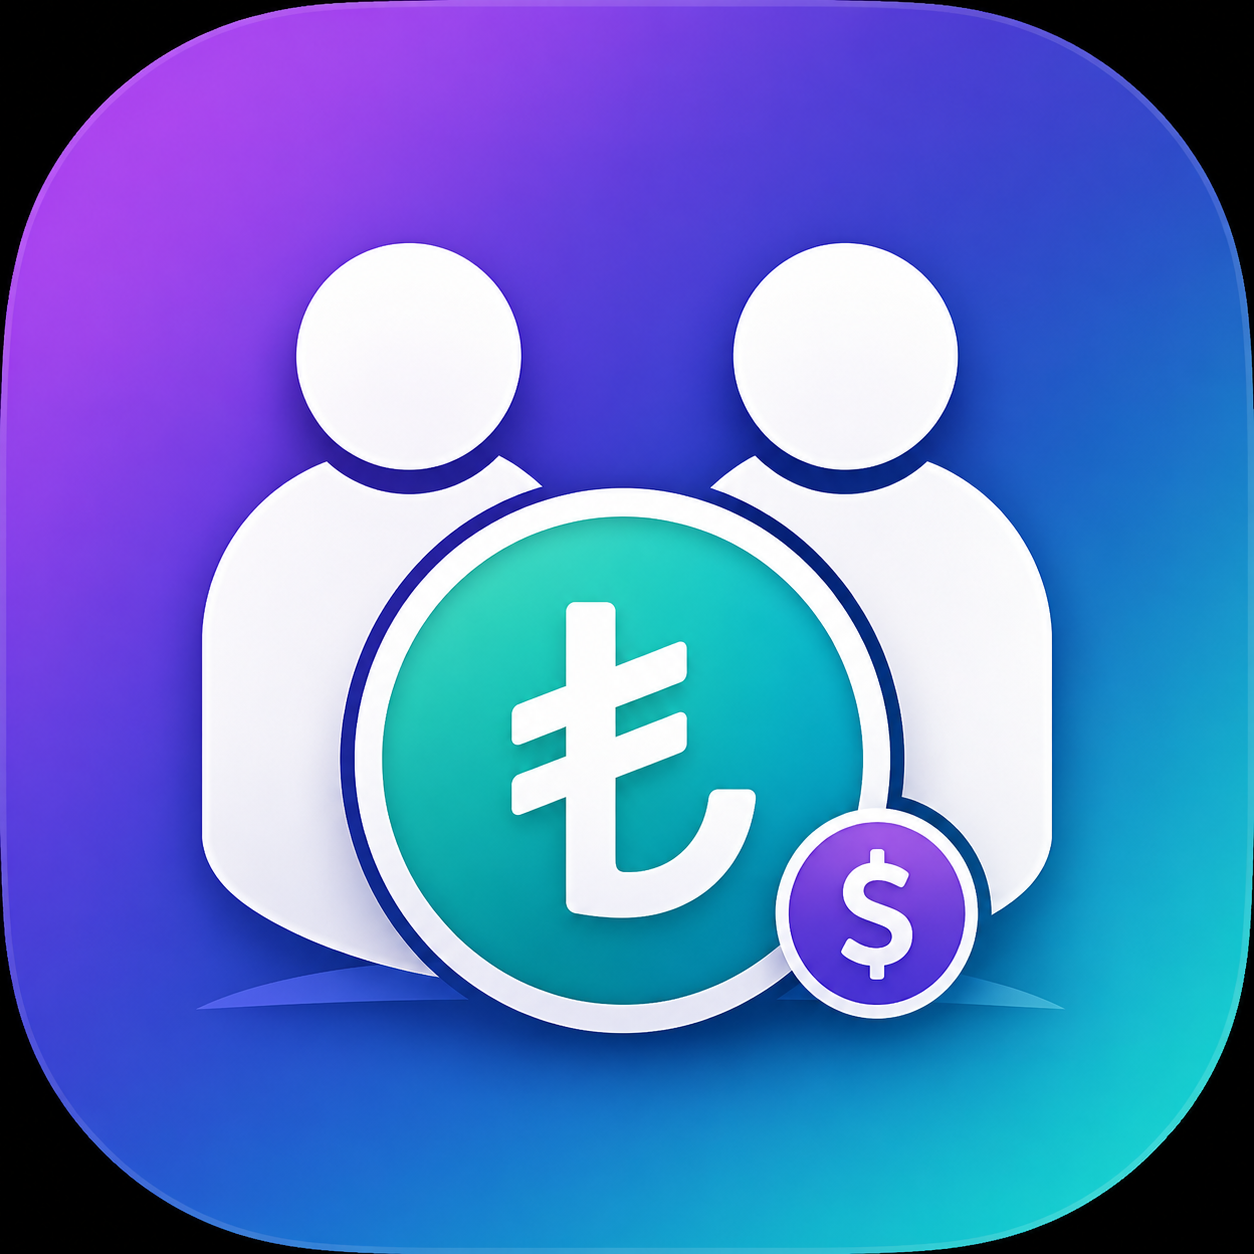
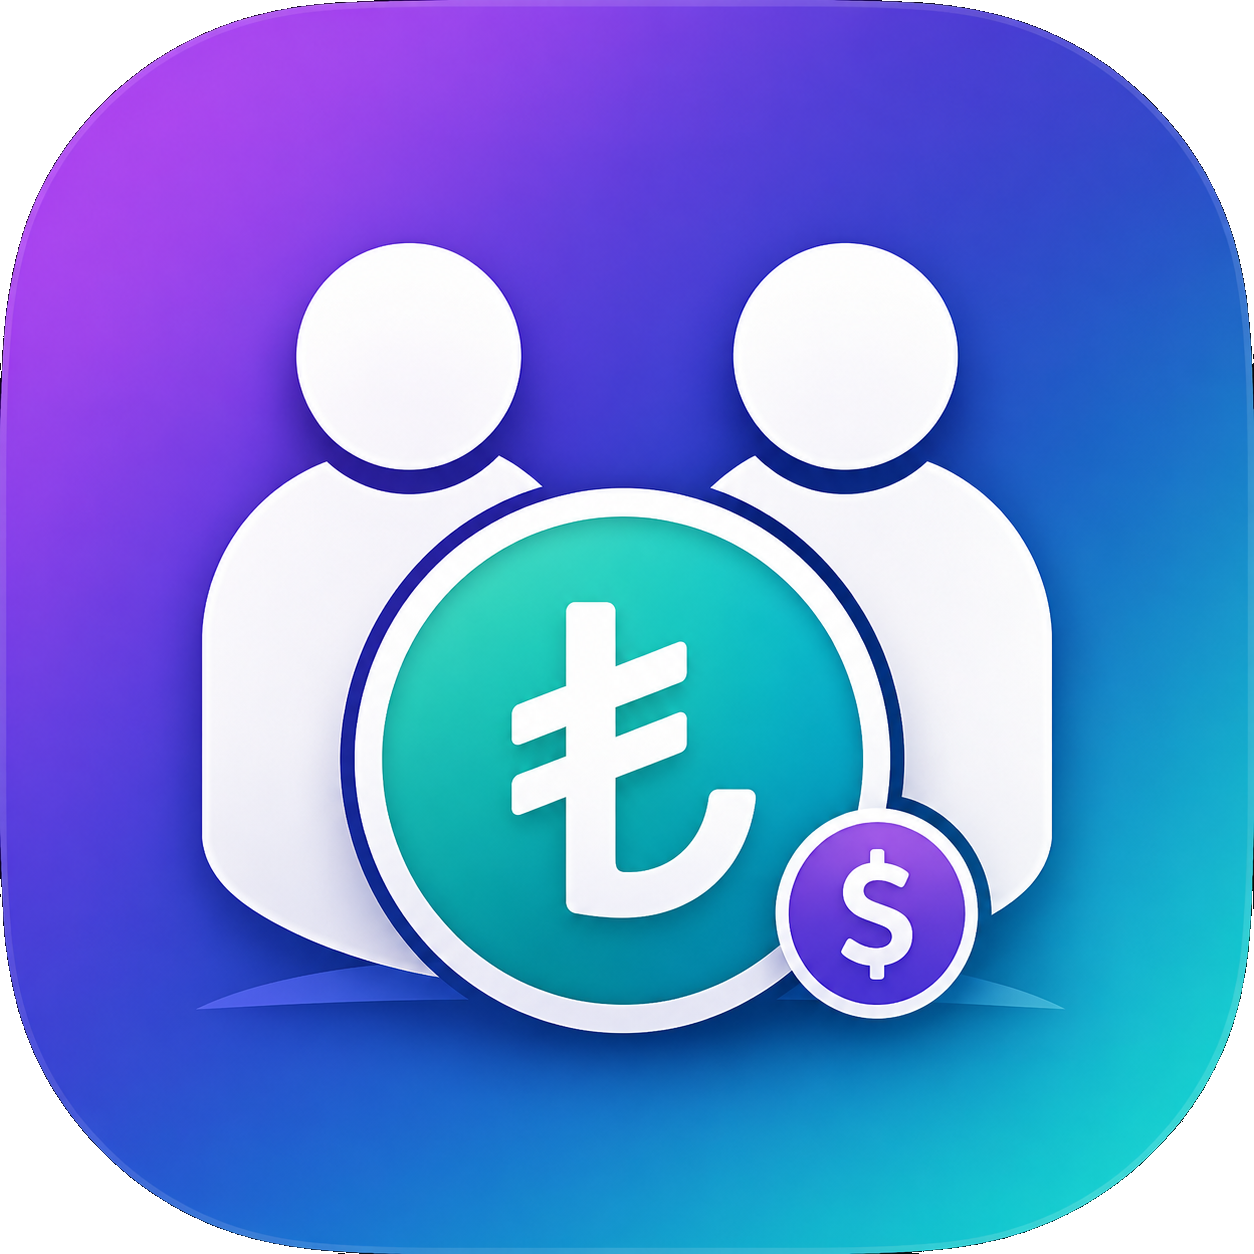
App Store inceleme sorunlarını çöz: gerçek uygulama ikonu ve hesap silme
Apple, 2.3.8 gereğince ikonların placeholder (varsayılan Flutter logosu)
olduğunu ve 5.1.1(v) gereğince hesap silme seçeneği bulunmadığını belirterek
uygulamayı reddetti.

- assets/icon.png'deki hazır marka ikonu flutter_launcher_icons ile
  iOS/Android/macOS platformlarına uygulandı; kaynak görseldeki siyah
  köşeler tam kenara yayılacak şekilde düzeltildi
- Ana sayfa menüsüne "Hesabımı Sil" eklendi: uyarı + şifre ile yeniden
  kimlik doğrulama sonrası kullanıcıyı tüm gruplardan çıkarır, profil
  belgesini ve Firebase Auth hesabını kalıcı olarak siler
- TR/EN/DE çevirileri eklendi
- Build numarası 22'ye yükseltildi

diff --git a/lib/main.dart b/lib/main.dart
@@ -485,6 +485,151 @@ class _HomePageState extends State<HomePage> {
     );
   }
 
+  Future<void> _removeUserFromAllGroups(String uid) async {
+    final groupsSnap = await FirebaseFirestore.instance
+        .collection('groups')
+        .where('memberIds', arrayContains: uid)
+        .get();
+
+    for (final groupDoc in groupsSnap.docs) {
+      final groupRef = groupDoc.reference;
+      await groupRef.update({
+        'memberIds': FieldValue.arrayRemove([uid]),
+      });
+      await groupRef.collection('members').doc(uid).delete();
+    }
+  }
+
+  Future<void> _deleteAccountFully(User user) async {
+    await _removeUserFromAllGroups(user.uid);
+    await FirebaseFirestore.instance.collection('users').doc(user.uid).delete();
+    await user.delete();
+  }
+
+  void showDeleteAccountDialog() {
+    showDialog(
+      context: context,
+      builder: (context) {
+        final loc = AppLocalizations.of(context);
+        return AlertDialog(
+          title: Text(loc.t('delete_account_title')),
+          content: Text(loc.t('delete_account_warning')),
+          actions: [
+            TextButton(
+              onPressed: () => Navigator.pop(context),
+              child: Text(loc.t('common_cancel')),
+            ),
+            ElevatedButton(
+              style: ElevatedButton.styleFrom(backgroundColor: Colors.red),
+              onPressed: () {
+                Navigator.pop(context);
+                _showDeleteAccountPasswordDialog();
+              },
+              child: Text(loc.t('common_delete')),
+            ),
+          ],
+        );
+      },
+    );
+  }
+
+  void _showDeleteAccountPasswordDialog() {
+    String password = '';
+    bool isDeleting = false;
+
+    showDialog(
+      context: context,
+      barrierDismissible: false,
+      builder: (context) {
+        final loc = AppLocalizations.of(context);
+        return StatefulBuilder(
+          builder: (context, setState) {
+            return AlertDialog(
+              title: Text(loc.t('delete_account_title')),
+              content: Column(
+                mainAxisSize: MainAxisSize.min,
+                crossAxisAlignment: CrossAxisAlignment.start,
+                children: [
+                  Text(loc.t('delete_account_password_prompt')),
+                  const SizedBox(height: 12),
+                  TextField(
+                    obscureText: true,
+                    autofocus: true,
+                    onChanged: (value) => password = value,
+                    decoration: InputDecoration(
+                      labelText: loc.t('delete_account_password_label'),
+                      border: const OutlineInputBorder(),
+                    ),
+                  ),
+                ],
+              ),
+              actions: [
+                TextButton(
+                  onPressed: isDeleting ? null : () => Navigator.pop(context),
+                  child: Text(loc.t('common_cancel')),
+                ),
+                ElevatedButton(
+                  style: ElevatedButton.styleFrom(backgroundColor: Colors.red),
+                  onPressed: isDeleting
+                      ? null
+                      : () async {
+                          if (password.isEmpty) return;
+                          setState(() => isDeleting = true);
+
+                          final user = FirebaseAuth.instance.currentUser;
+                          if (user == null || user.email == null) {
+                            Navigator.pop(context);
+                            return;
+                          }
+
+                          try {
+                            final cred = EmailAuthProvider.credential(
+                              email: user.email!,
+                              password: password,
+                            );
+                            await user.reauthenticateWithCredential(cred);
+                            await _deleteAccountFully(user);
+
+                            if (context.mounted) Navigator.pop(context);
+                          } on FirebaseAuthException catch (e) {
+                            setState(() => isDeleting = false);
+                            if (e.code == 'wrong-password' || e.code == 'invalid-credential') {
+                              ScaffoldMessenger.of(context).showSnackBar(
+                                SnackBar(content: Text(loc.t('delete_account_wrong_password'))),
+                              );
+                            } else {
+                              ScaffoldMessenger.of(context).showSnackBar(
+                                SnackBar(content: Text(loc.t('generic_error', {'error': '${e.message}'}))),
+                              );
+                            }
+                          } catch (e) {
+                            setState(() => isDeleting = false);
+                            if (context.mounted) {
+                              ScaffoldMessenger.of(context).showSnackBar(
+                                SnackBar(content: Text(loc.t('generic_error', {'error': '$e'}))),
+                              );
+                            }
+                          }
+                        },
+                  child: isDeleting
+                      ? const SizedBox(
+                          width: 18,
+                          height: 18,
+                          child: CircularProgressIndicator(
+                            strokeWidth: 2,
+                            color: Colors.white,
+                          ),
+                        )
+                      : Text(loc.t('delete_account_confirm_button')),
+                ),
+              ],
+            );
+          },
+        );
+      },
+    );
+  }
+
   void openGroupDetail(String groupName, String groupCurrency, String ownerEmail) {
     Navigator.push(
       context,
@@ -659,10 +804,36 @@ class _HomePageState extends State<HomePage> {
             icon: const Icon(Icons.group_add),
             onPressed: showJoinGroupDialog,
           ),
-          IconButton(
-            icon: const Icon(Icons.logout),
-            onPressed: () async {
-              await FirebaseAuth.instance.signOut();
+          PopupMenuButton<String>(
+            icon: const Icon(Icons.more_vert),
+            onSelected: (value) {
+              if (value == 'logout') {
+                FirebaseAuth.instance.signOut();
+              } else if (value == 'delete_account') {
+                showDeleteAccountDialog();
+              }
+            },
+            itemBuilder: (context) {
+              final loc = AppLocalizations.of(context);
+              return [
+                PopupMenuItem(
+                  value: 'logout',
+                  child: ListTile(
+                    leading: const Icon(Icons.logout),
+                    title: Text(loc.t('home_menu_logout')),
+                  ),
+                ),
+                PopupMenuItem(
+                  value: 'delete_account',
+                  child: ListTile(
+                    leading: const Icon(Icons.delete_forever, color: Colors.red),
+                    title: Text(
+                      loc.t('home_menu_delete_account'),
+                      style: const TextStyle(color: Colors.red),
+                    ),
+                  ),
+                ),
+              ];
             },
           ),
         ],

diff --git a/lib/l10n/strings_de.dart b/lib/l10n/strings_de.dart
@@ -54,6 +54,17 @@ const Map<String, String> stringsDe = {
   'home_delete_group_title': 'Gruppe löschen',
   'home_delete_group_confirm': '{name} löschen?',
   'home_user_not_found': 'Benutzer nicht gefunden',
+  'home_menu_logout': 'Abmelden',
+  'home_menu_delete_account': 'Konto löschen',
+
+  'delete_account_title': 'Konto löschen',
+  'delete_account_warning':
+      'Wenn du dein Konto löschst, wird dein Profil dauerhaft entfernt und du wirst aus allen Gruppen entfernt, in denen du Mitglied bist. Dies kann nicht rückgängig gemacht werden. Möchtest du fortfahren?',
+  'delete_account_password_prompt':
+      'Bitte gib zu deiner Sicherheit dein Passwort erneut ein, um fortzufahren.',
+  'delete_account_password_label': 'Passwort',
+  'delete_account_confirm_button': 'Konto endgültig löschen',
+  'delete_account_wrong_password': 'Falsches Passwort. Bitte versuche es erneut.',
 
   'member_add_anonymous_title': 'Anonymes Mitglied hinzufügen',
   'member_name_label': 'Mitgliedsname',

diff --git a/lib/l10n/strings_tr.dart b/lib/l10n/strings_tr.dart
@@ -53,6 +53,17 @@ const Map<String, String> stringsTr = {
   'home_delete_group_title': 'Grubu Sil',
   'home_delete_group_confirm': '{name} silinsin mi?',
   'home_user_not_found': 'Kullanıcı bulunamadı',
+  'home_menu_logout': 'Çıkış Yap',
+  'home_menu_delete_account': 'Hesabımı Sil',
+
+  'delete_account_title': 'Hesabı Sil',
+  'delete_account_warning':
+      'Hesabını sildiğinde profilin kalıcı olarak silinir ve üyesi olduğun tüm gruplardan çıkarılırsın. Bu işlem geri alınamaz. Devam etmek istiyor musun?',
+  'delete_account_password_prompt':
+      'Güvenliğin için devam etmeden önce şifreni tekrar girmen gerekiyor.',
+  'delete_account_password_label': 'Şifre',
+  'delete_account_confirm_button': 'Hesabımı Kalıcı Olarak Sil',
+  'delete_account_wrong_password': 'Şifre yanlış. Lütfen tekrar dene.',
 
   'member_add_anonymous_title': 'Anonim Üye Ekle',
   'member_name_label': 'Üye adı',

diff --git a/lib/l10n/strings_en.dart b/lib/l10n/strings_en.dart
@@ -53,6 +53,17 @@ const Map<String, String> stringsEn = {
   'home_delete_group_title': 'Delete Group',
   'home_delete_group_confirm': 'Delete {name}?',
   'home_user_not_found': 'User not found',
+  'home_menu_logout': 'Log Out',
+  'home_menu_delete_account': 'Delete My Account',
+
+  'delete_account_title': 'Delete Account',
+  'delete_account_warning':
+      'Deleting your account permanently removes your profile and removes you from all groups you are a member of. This cannot be undone. Do you want to continue?',
+  'delete_account_password_prompt':
+      'For your security, please re-enter your password to continue.',
+  'delete_account_password_label': 'Password',
+  'delete_account_confirm_button': 'Permanently Delete My Account',
+  'delete_account_wrong_password': 'Incorrect password. Please try again.',
 
   'member_add_anonymous_title': 'Add Anonymous Member',
   'member_name_label': 'Member name',
